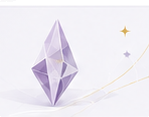
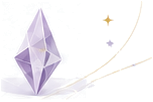
Update footer socials, remove background from crystal asset, and refine about text

diff --git a/about.html b/about.html
@@ -115,7 +115,7 @@
                 <ul class="about-list">
                     <li><i class="fa-solid fa-sparkles"></i> 讓 <strong>Gemini</strong> 幫我梳理核心邏輯與架構藍圖；</li>
                     <li><i class="fa-solid fa-sparkles"></i> 讓 <strong>ChatGPT</strong> 進行程式碼的微調與細節優化；</li>
-                    <li><i class="fa-solid fa-sparkles"></i> 搭配 <strong>Cursor（Antigravity）</strong> 等現代 AI 編輯器直接實踐落地。</li>
+                    <li><i class="fa-solid fa-sparkles"></i> 搭配 <strong>Antigravity</strong> 等現代 AI 編輯器直接實踐落地。</li>
                 </ul>
 
                 <p>這種「混合 AI 工作流」，讓我能用最快的速度把想法變現。</p>
@@ -162,8 +162,6 @@
                 <span class="footer-divider">|</span>
                 <div class="footer-socials">
                     <a href="#"><i class="fa-brands fa-instagram"></i></a>
-                    <a href="#"><i class="fa-brands fa-github"></i></a>
-                    <a href="#"><i class="fa-brands fa-linkedin"></i></a>
                 </div>
                 <div class="footer-crystal">
                     <img src="assets/footer-crystal.png" alt="Crystal Accent">

diff --git a/index.html b/index.html
@@ -242,8 +242,6 @@
                 <span class="footer-divider">|</span>
                 <div class="footer-socials">
                     <a href="#"><i class="fa-brands fa-instagram"></i></a>
-                    <a href="#"><i class="fa-brands fa-github"></i></a>
-                    <a href="#"><i class="fa-brands fa-linkedin"></i></a>
                 </div>
                 <div class="footer-crystal">
                     <img src="assets/footer-crystal.png" alt="Crystal Accent">

diff --git a/style.css b/style.css
@@ -652,6 +652,7 @@ footer {
 .footer-crystal img {
     height: 60px;
     object-fit: contain;
+    mix-blend-mode: multiply;
     animation: float 4s ease-in-out infinite;
 }
 
